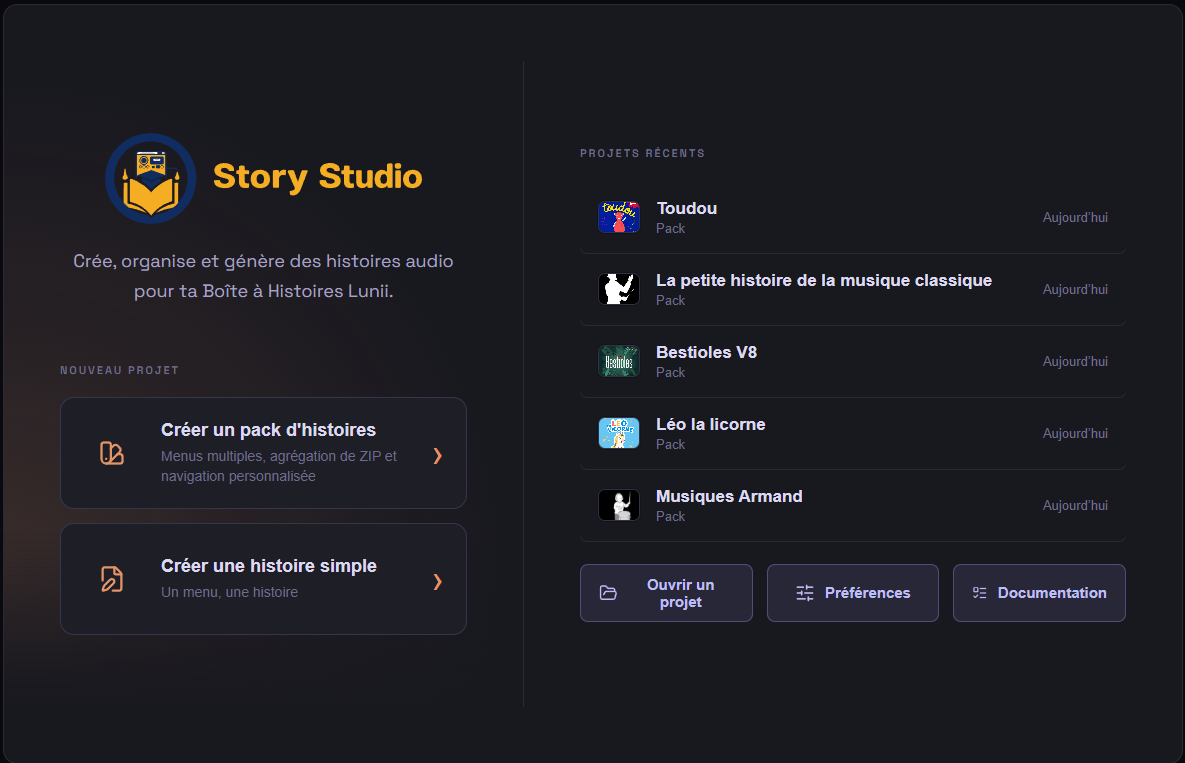
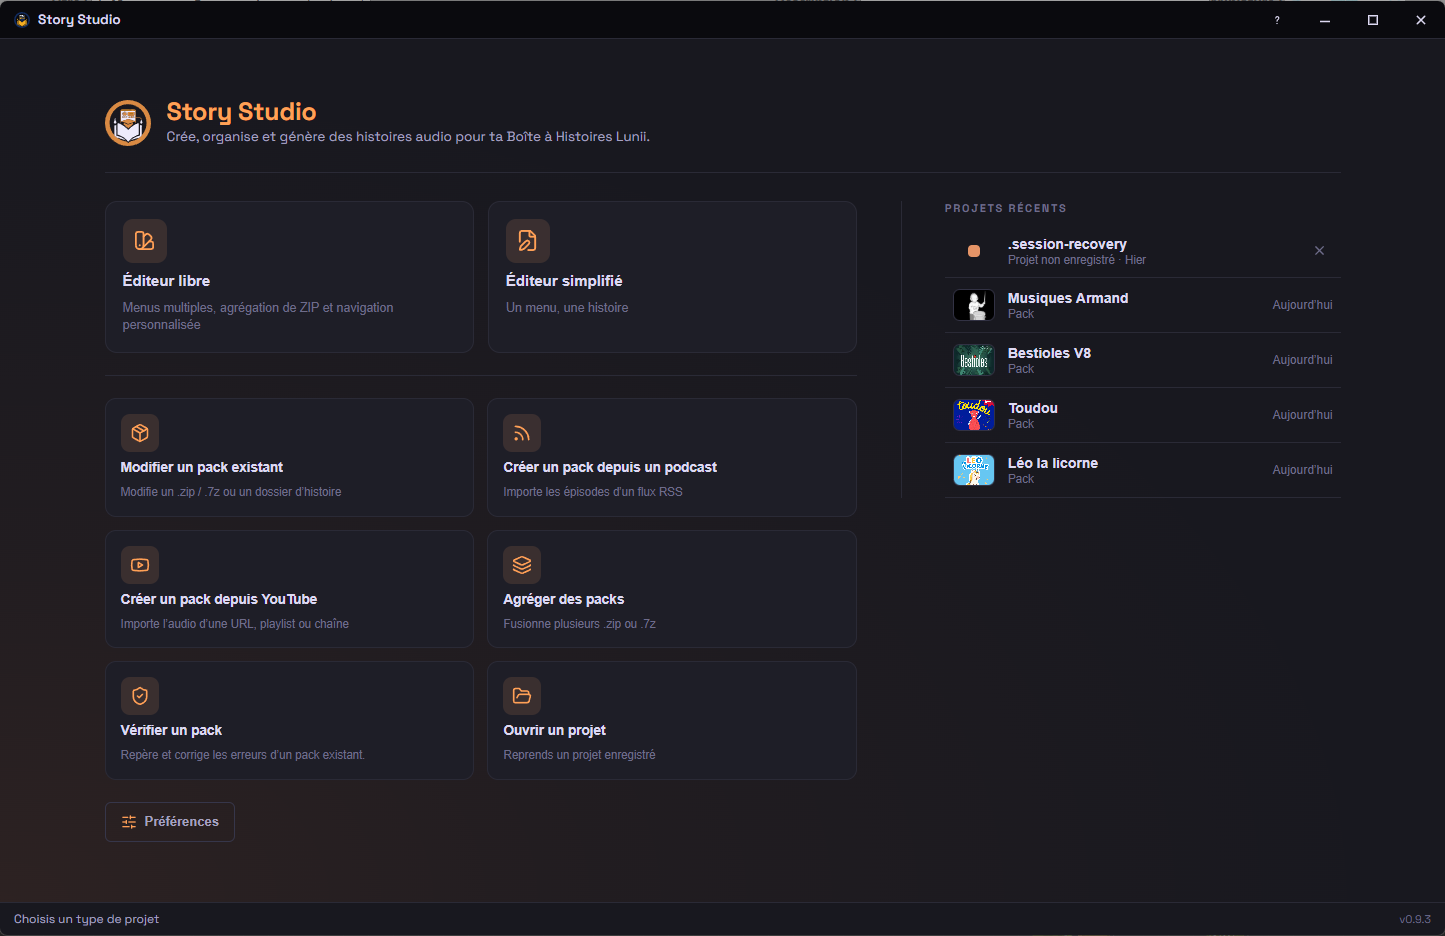
Prepare 0.9.3 release notes

diff --git a/docs/index.html b/docs/index.html
@@ -6,7 +6,7 @@
     <title>Story Studio — Créer des histoires et packs compatibles Lunii</title>
     <meta
       name="description"
-      content="Story Studio est un éditeur Windows open source pour créer des histoires pour la Lunii, importer, corriger et exporter des packs d'histoires compatibles Lunii."
+      content="Story Studio est un éditeur Windows open source pour créer des histoires pour la Lunii, importer des podcasts ou vidéos, corriger et exporter des packs compatibles Lunii."
     />
     <meta name="robots" content="index, follow" />
     <meta name="theme-color" content="#0c1227" />
@@ -15,7 +15,7 @@
     <meta property="og:title" content="Story Studio — Créer des histoires pour la Lunii" />
     <meta
       property="og:description"
-      content="Éditeur Windows open source pour créer des histoires pour la Lunii, importer, corriger et exporter des packs compatibles Lunii."
+      content="Éditeur Windows open source pour créer des histoires pour la Lunii, importer des podcasts ou vidéos, corriger et exporter des packs compatibles Lunii."
     />
     <meta property="og:type" content="website" />
     <meta property="og:site_name" content="Story Studio" />
@@ -29,7 +29,7 @@
 
     <meta name="twitter:card" content="summary_large_image" />
     <meta name="twitter:title" content="Story Studio — Créer des histoires pour la Lunii" />
-    <meta name="twitter:description" content="Éditeur Windows open source pour créer des histoires pour la Lunii, importer, corriger et exporter des packs compatibles Lunii." />
+    <meta name="twitter:description" content="Éditeur Windows open source pour créer des histoires pour la Lunii, importer des podcasts ou vidéos, corriger et exporter des packs compatibles Lunii." />
     <meta name="twitter:image" content="https://hugs11.github.io/story-studio/social-card.png" />
     <meta name="twitter:image:alt" content="Story Studio — éditeur de packs d'histoires pour la Lunii" />
 
@@ -39,13 +39,13 @@
         "@type": "SoftwareApplication",
         "name": "Story Studio",
         "alternateName": "Studio Story",
-        "description": "Éditeur Windows open source pour créer des histoires pour la Lunii, importer, corriger et exporter des packs d'histoires compatibles Lunii.",
+        "description": "Éditeur Windows open source pour créer des histoires pour la Lunii, importer des podcasts ou vidéos, corriger et exporter des packs d'histoires compatibles Lunii.",
         "url": "https://hugs11.github.io/story-studio/",
         "downloadUrl": "https://github.com/Hugs11/story-studio/releases/latest",
         "codeRepository": "https://github.com/Hugs11/story-studio",
         "applicationCategory": "MultimediaApplication",
         "operatingSystem": "Windows",
-        "softwareVersion": "0.9.2",
+        "softwareVersion": "0.9.3",
         "license": "https://github.com/Hugs11/story-studio/blob/main/LICENSE",
         "author": {
           "@type": "Person",
@@ -530,13 +530,13 @@
           </div>
 
           <div class="release-card" aria-labelledby="latest-release-title">
-            <h2 id="latest-release-title">Nouveautés de la version 0.9.2</h2>
+            <h2 id="latest-release-title">Nouveautés de la version 0.9.3</h2>
             <ul>
-              <li>Vérificateur/correcteur de packs communautaires avec analyse audio, image, métadonnées et navigation.</li>
-              <li>Workflow audio plus propre : FLAC jusqu'à l'export, volume cible, limiteur de crête et silences mesurés.</li>
-              <li>Découpage audio avant utilisation et import direct depuis des podcasts RSS.</li>
-              <li>Refonte complète de l'interface pour mieux comprendre les actions, les états et les rails de navigation.</li>
-              <li>Améliorations de l'arbre, du diagramme, du relink des médias manquants et de l'éditeur image.</li>
+              <li>Nouvel accueil guidé pour modifier un pack, créer depuis un podcast ou YouTube, agréger des archives et vérifier/corriger un pack.</li>
+              <li>Sessions non enregistrées par défaut : travail immédiat, enregistrement optionnel, reprise après crash et tri des médias à conserver.</li>
+              <li>Piper devient le moteur vocal local par défaut, sans serveur ni configuration, avec voix françaises téléchargées au premier usage.</li>
+              <li>Import YouTube via yt-dlp auto-téléchargé et import de vidéos, playlists ou chaînes dans l'éditeur.</li>
+              <li>Import de packs plus fidèle : références partagées, juge de fidélité canonique, agrégats et graphes ramifiés mieux préservés.</li>
             </ul>
           </div>
         </div>
@@ -569,9 +569,9 @@
                 </span>
                 <h3>Démarrez en quelques secondes</h3>
                 <p>
-                  Un écran d'accueil clair pour retrouver vos projets récents,
-                  importer un pack existant ou en créer un nouveau. Pas de menus
-                  cachés, pas de configuration interminable.
+                  Un écran d'accueil clair pour créer librement, modifier un
+                  pack existant, importer depuis un podcast ou YouTube, agréger
+                  plusieurs archives et vérifier un pack communautaire.
                 </p>
               </div>
             </div>
@@ -690,10 +690,11 @@
                     <rect x="3" y="14" width="7" height="7" />
                   </svg>
                 </span>
-                <h3>Importez depuis un podcast</h3>
+                <h3>Importez depuis un podcast ou YouTube</h3>
                 <p>
-                  Récupérez des épisodes depuis un flux RSS et transformez-les
-                  plus vite en contenus prêts à organiser dans votre pack.
+                  Récupérez des épisodes depuis un flux RSS ou des vidéos depuis
+                  YouTube, puis retrouvez-les comme histoires prêtes à organiser
+                  dans votre pack.
                 </p>
               </div>
             </div>
@@ -716,9 +717,9 @@
                 </span>
                 <h3>Audio sans complication</h3>
                 <p>
-                  Enregistrez votre voix au micro, coupez, ajoutez des fondus,
-                  assemblez plusieurs fichiers en une seule piste — directement dans
-                  l'app.
+                  Enregistrez votre voix au micro, générez une voix locale avec
+                  Piper, coupez, ajoutez des fondus et assemblez plusieurs
+                  fichiers en une seule piste — directement dans l'app.
                 </p>
               </div>
             </div>

diff --git a/CHANGELOG.md b/CHANGELOG.md
@@ -12,6 +12,70 @@ public version; this file stays as the concise project history.
 
 ---
 
+## [0.9.3] - 2026-07-03
+
+Story Studio v0.9.3 adds an assisted workflow layer on top of the existing
+editor: a redesigned home screen, guided import/generation funnels, ephemeral
+sessions, zero-config local voice generation, YouTube import and stronger
+imported-pack fidelity.
+
+### Added
+
+- Added a redesigned home screen centered on guided workflows: edit an existing
+  pack, create from a podcast, create from YouTube, aggregate packs and
+  check/correct a community pack.
+- Added a reusable funnel chassis with shared modal layout, stepper, drop zones,
+  tool buttons, generation progress and final states.
+- Added ephemeral project sessions so new work can start without choosing a
+  `.mbah` file first, with optional save prompts, crash recovery snapshots and
+  cleanup of temporary workspaces.
+- Added Piper as the default zero-config local TTS backend, with automatic
+  runtime provisioning of the engine and French voices.
+- Added YouTube import through runtime-downloaded `yt-dlp`, including video,
+  playlist and channel listing, thumbnail import and editor insertion.
+- Added a generative aggregate-packs funnel that builds a new pack directly from
+  several ZIP/7z packs without opening the full editor.
+- Added shared reference entries for imported branching graphs, including tree,
+  editor, diagram, simulator, validation and native export support.
+- Added a canonical fidelity judge and baseline coverage for imported packs.
+- Added a session-media triage step before cleaning up ephemeral sessions, so
+  unused generated/imported media can be kept or discarded intentionally.
+
+### Changed
+
+- Reworked imported pack projection around native graph classification, shared
+  entries and canonical fidelity checks; complex packs that cannot be edited
+  safely are kept out of the editable path.
+- Improved the edit-existing-pack flow with dry-run editability checks, folder
+  pack conversion, metadata prefill and suggested version bumps at generation.
+- Moved the community pack checker out of Preferences into its own guided
+  home-screen tool and refined the correction flow.
+- Enabled autosave by default for saved projects while keeping explicit user
+  opt-outs, and skipped empty simple-mode recovery snapshots.
+- Improved audio handling for generated and corrected packs, including silence
+  alignment with official packs and clearer generation controls.
+- Simplified generation and options UI, tightened funnel sizing and refreshed
+  French wording around save states, placeholders, checker messages and labels.
+- Added ESLint and Knip configuration, then removed stale JS/Rust helpers,
+  duplicated hooks and obsolete native graph fallback code.
+
+### Fixed
+
+- Fixed imported aggregate handling, duplicate imported entry names and imported
+  pack UUID/name recovery.
+- Fixed several navigation edge cases around refs, implicit Home playback,
+  root/virtual after-play returns, generated navigation badges and simulator
+  end-node selection.
+- Fixed global shortcuts leaking through modals, inline overlays and dialogs.
+- Fixed ephemeral promotion failure handling, tag-only media triage and transfer
+  copy reuse.
+- Fixed compact editor layouts, after-play controls, diagram return rails, tree
+  panel minimum width and pack-checker stale styles.
+- Fixed post-recording deletion, render queue close controls, archive labels,
+  Piper feedback and remaining import notice wording.
+
+---
+
 ## [0.9.2] - 2026-06-18
 
 Story Studio v0.9.2 focuses on making pack preparation easier to understand:

diff --git a/THIRD_PARTY_NOTICES.md b/THIRD_PARTY_NOTICES.md
@@ -139,11 +139,23 @@ to the downloaded copies, which is why they are disclosed here.
   (always the latest release; integrity verified against that release's
   `SHA2-256SUMS` before use).
 - **Upstream project:** <https://github.com/yt-dlp/yt-dlp>
-- **License:** **The Unlicense** (public-domain dedication)
-- **License text:** <https://github.com/yt-dlp/yt-dlp/blob/master/LICENSE>
+- **License:** the yt-dlp source project is licensed under **The Unlicense**,
+  but the standalone Windows release binary downloaded here is a
+  **PyInstaller-bundled executable**. Upstream documents that those executables
+  include GPLv3+ licensed code and that the combined work is therefore
+  **GPL v3 or later**.
+- **License texts / notices:**
+  - yt-dlp source license: <https://github.com/yt-dlp/yt-dlp/blob/master/LICENSE>
+  - yt-dlp licensing notes: <https://github.com/yt-dlp/yt-dlp#licensing>
+  - yt-dlp third-party notices:
+    <https://github.com/yt-dlp/yt-dlp/blob/master/THIRD_PARTY_LICENSES.txt>
+  - GPL v3: <https://www.gnu.org/licenses/gpl-3.0.en.html>
 
 The latest version is always fetched because YouTube blocks outdated releases.
-yt-dlp uses the bundled `ffmpeg.exe` (see above) to extract audio.
+yt-dlp uses the bundled `ffmpeg.exe` (see above) to extract audio. Story Studio
+does not redistribute `yt-dlp.exe`; it is fetched at runtime. If a future
+release bundles `yt-dlp.exe`, treat that bundled binary as GPL v3 or later and
+include the matching upstream third-party notices.
 
 ### Piper (text-to-speech)
 
@@ -164,15 +176,21 @@ yt-dlp uses the bundled `ffmpeg.exe` (see above) to extract audio.
     **ONNX Runtime**, licensed under the **MIT License** —
     <https://github.com/microsoft/onnxruntime/blob/main/LICENSE>.
   - Each voice model carries **its own license**, documented in that voice's
-    `MODEL_CARD` in the `piper-voices` repository. The French voices used by
-    default (`fr_FR-siwis-medium`, `fr_FR-tom-medium`, `fr_FR-gilles-low`) are
-    based on openly licensed datasets (e.g. CC BY / CC0); check each MODEL_CARD
-    for the exact terms.
+    `MODEL_CARD` in the `piper-voices` repository. The French voices available
+    in Story Studio are:
+    - `fr_FR-siwis-medium`: dataset/model card license **CC BY 4.0** —
+      <https://huggingface.co/rhasspy/piper-voices/blob/v1.0.0/fr/fr_FR/siwis/medium/MODEL_CARD>
+    - `fr_FR-tom-medium`: dataset/model card license **AGPL v3** —
+      <https://huggingface.co/rhasspy/piper-voices/blob/v1.0.0/fr/fr_FR/tom/medium/MODEL_CARD>
+    - `fr_FR-gilles-low`: dataset/model card license **CC0** —
+      <https://huggingface.co/rhasspy/piper-voices/blob/v1.0.0/fr/fr_FR/gilles/low/MODEL_CARD>
 
 Because the Piper Windows archive includes eSpeak NG (GPL v3), treat the
 downloaded Piper toolchain as **GPL v3** for any redistribution. Story Studio
 does not redistribute it — it is fetched at runtime from the official sources
-above — but anyone who chooses to bundle it must honor those terms.
+above — but anyone who chooses to bundle it must honor those terms. If a future
+release bundles Piper voices too, review each selected voice model card and
+document the exact voice license in the bundled-assets section.
 
 ## Distribution notes
 
@@ -184,5 +202,5 @@ hard **100 MiB per-file** limit (the current binary is close to that limit).
 yt-dlp and Piper are **not** bundled: they are downloaded at runtime (see
 "Runtime-downloaded tools" above). If a future release decides to bundle either
 of them in the installer, move its entry up and document the exact file, version,
-SHA-256 and the resulting license obligations (notably Piper's GPL v3 eSpeak NG
-component).
+SHA-256 and the resulting license obligations (notably yt-dlp's GPLv3+
+standalone Windows binary and Piper's GPL v3 eSpeak NG component).

diff --git a/README.fr.md b/README.fr.md
@@ -12,7 +12,7 @@
   <a href=".github/workflows/ci.yml"><img alt="CI: Windows build" src="https://img.shields.io/badge/CI-Windows%20build-2ea44f.svg"></a>
   <a href="LICENSE"><img alt="License: MIT" src="https://img.shields.io/badge/license-MIT-blue.svg"></a>
   <a href="#configuration-requise"><img alt="Platform: Windows" src="https://img.shields.io/badge/platform-Windows-0078D4.svg"></a>
-  <a href="CHANGELOG.md"><img alt="Version 0.9.2" src="https://img.shields.io/badge/version-0.9.2-2F80ED.svg"></a>
+  <a href="CHANGELOG.md"><img alt="Version 0.9.3" src="https://img.shields.io/badge/version-0.9.3-2F80ED.svg"></a>
   <a href="#statut-beta"><img alt="Status: beta" src="https://img.shields.io/badge/status-beta-f59e0b.svg"></a>
   <a href="https://tauri.app/"><img alt="Tauri 2" src="https://img.shields.io/badge/Tauri-2-24C8DB.svg"></a>
   <a href="https://react.dev/"><img alt="React 19" src="https://img.shields.io/badge/React-19-61DAFB.svg"></a>
@@ -40,13 +40,13 @@ issues.
 
 ## Dernière version
 
-Story Studio 0.9.2 ajoute un vérificateur/correcteur de packs communautaires,
-l'import de podcasts, le découpage audio avant utilisation, un workflow audio
-basé sur le FLAC et une refonte complète de l'interface avec des rails de
-navigation et des actions plus lisibles.
+Story Studio 0.9.3 ajoute un accueil guidé, des sessions non enregistrées avec
+enregistrement optionnel, des flux assistés pour modifier, vérifier ou agréger
+des packs, la génération vocale Piper sans configuration, l'import YouTube et
+une meilleure fidélité des packs importés.
 
 - [Télécharger la dernière version](https://github.com/Hugs11/story-studio/releases/latest)
-- [Lire les notes de version 0.9.2](https://github.com/Hugs11/story-studio/releases/tag/v0.9.2)
+- [Lire les notes de version 0.9.3](https://github.com/Hugs11/story-studio/releases/tag/v0.9.3)
 - [Voir le changelog complet](CHANGELOG.md)
 
 ## En un coup d'œil
@@ -58,7 +58,7 @@ navigation et des actions plus lisibles.
 | **Format projet** | `.mbah` |
 | **Format d'export** | Packs ZIP compatibles Lunii |
 | **Stack principale** | React 19, Vite, Tauri 2, Rust |
-| **Workflow** | Éditeur arborescent visuel, agrégation de packs ZIP, navigation par nœuds, explorateur de médias, simulateur |
+| **Workflow** | Accueil guidé, éditeur arborescent visuel, agrégation de packs ZIP, navigation par nœuds, explorateur de médias, simulateur |
 | **Vie privée** | App locale, aucun backend hébergé, aucune télémétrie |
 
 ## Captures d'écran
@@ -92,14 +92,16 @@ navigation et des actions plus lisibles.
 ## Fonctionnalités
 
 - **Éditeur visuel arborescent** avec menus imbriqués, multi-sélection, glisser-déposer et actions contextuelles.
-- **Import de packs ZIP Lunii** : inspection, extraction en projet éditable, agrégation avec vos propres histoires.
+- **Flux guidés depuis l'accueil** pour modifier un pack existant, créer depuis un podcast ou YouTube, agréger des ZIP et vérifier/corriger un pack communautaire.
+- **Import de packs ZIP Lunii** : inspection, extraction en projet éditable, préservation des graphes ramifiés via références partagées, agrégation avec vos propres histoires.
 - **Workflow audio intégré** : enregistrement micro, rognage, coupes, fondus, assemblage et insertion de silence.
 - **Workflow image intégré** : recadrage 320×240 automatique, génération d'images textuelles depuis les noms.
+- **Génération vocale locale** avec Piper par défaut et XTTS en option avancée.
 - **Explorateur de médias** avec tags, filtres, compteurs d'utilisation et aperçus rapides.
 - **Simulateur intégré** pour tester la navigation et les nœuds de fin avant export.
 - **Validation et file de rendu** : vérifications de compatibilité et génération en série avec suivi des logs.
-- **Intégrations locales optionnelles** XTTS (voix) et ComfyUI (images).
-- **Confort projet** : autosave, versions de sécurité, raccourcis configurables, thèmes clair/sombre, vue diagramme.
+- **Intégrations locales optionnelles** YouTube via yt-dlp, XTTS (voix) et ComfyUI (images).
+- **Confort projet** : sessions non enregistrées, enregistrement automatique, reprise après crash, versions de sécurité, raccourcis configurables, thèmes clair/sombre, vue diagramme.
 
 ## Pourquoi Story Studio ?
 

diff --git a/README.md b/README.md
@@ -12,7 +12,7 @@
   <a href=".github/workflows/ci.yml"><img alt="CI: Windows build" src="https://img.shields.io/badge/CI-Windows%20build-2ea44f.svg"></a>
   <a href="LICENSE"><img alt="License: MIT" src="https://img.shields.io/badge/license-MIT-blue.svg"></a>
   <a href="#requirements"><img alt="Platform: Windows" src="https://img.shields.io/badge/platform-Windows-0078D4.svg"></a>
-  <a href="CHANGELOG.md"><img alt="Version 0.9.2" src="https://img.shields.io/badge/version-0.9.2-2F80ED.svg"></a>
+  <a href="CHANGELOG.md"><img alt="Version 0.9.3" src="https://img.shields.io/badge/version-0.9.3-2F80ED.svg"></a>
   <a href="#beta-status"><img alt="Status: beta" src="https://img.shields.io/badge/status-beta-f59e0b.svg"></a>
   <a href="https://tauri.app/"><img alt="Tauri 2" src="https://img.shields.io/badge/Tauri-2-24C8DB.svg"></a>
   <a href="https://react.dev/"><img alt="React 19" src="https://img.shields.io/badge/React-19-61DAFB.svg"></a>
@@ -44,12 +44,12 @@ GitHub issues.
 
 ## Latest Release
 
-Story Studio 0.9.2 adds a community pack checker/corrector, podcast import,
-pre-use audio splitting, a FLAC-based audio workflow and a complete UI redesign
-with clearer navigation rails and actions.
+Story Studio 0.9.3 adds a guided home experience, optional-save ephemeral
+sessions, assisted pack editing/checking/aggregation flows, zero-config Piper
+voice generation, YouTube import and stronger imported-pack fidelity.
 
 - [Download the latest release](https://github.com/Hugs11/story-studio/releases/latest)
-- [Read the v0.9.2 release notes](https://github.com/Hugs11/story-studio/releases/tag/v0.9.2)
+- [Read the v0.9.3 release notes](https://github.com/Hugs11/story-studio/releases/tag/v0.9.3)
 - [See the full changelog](CHANGELOG.md)
 
 ## At a Glance
@@ -62,7 +62,7 @@ with clearer navigation rails and actions.
 | **Project format** | `.mbah` |
 | **Export format** | Lunii-compatible ZIP packs |
 | **Main stack** | React 19, Vite, Tauri 2, Rust |
-| **Workflow** | Visual tree editor, ZIP pack aggregation, node-based navigation, media explorer, simulator |
+| **Workflow** | Guided home workflows, visual tree editor, ZIP pack aggregation, node-based navigation, media explorer, simulator |
 | **Privacy model** | Local app, no hosted backend, no telemetry |
 
 ## Screenshots
@@ -96,14 +96,16 @@ with clearer navigation rails and actions.
 ## Features
 
 - **Visual tree editor** with nested menus, multi-select, drag-and-drop and contextual actions.
-- **Lunii ZIP pack import**: inspect, extract into an editable project, aggregate with your own stories.
+- **Guided home workflows** to edit an existing pack, create from a podcast or YouTube, aggregate ZIP packs, and check/correct a community pack.
+- **Lunii ZIP pack import**: inspect, extract into an editable project, preserve branching graphs with shared references, and aggregate with your own stories.
 - **Built-in audio workflow**: microphone recording, trimming, cuts, fades, assembly and silence insertion.
 - **Built-in image workflow**: automatic 320×240 cropping, text-image generation from node names.
+- **Local voice generation** with Piper by default and XTTS as an advanced opt-in backend.
 - **Media explorer** with tags, filters, usage counters and quick previews.
 - **Built-in simulator** to test navigation and end nodes before export.
 - **Validation and render queue**: compatibility checks and serial generation with log tracking.
-- **Optional local integrations** XTTS (voice) and ComfyUI (images).
-- **Project comfort**: autosave, safety versions, configurable shortcuts, light/dark themes, full diagram view.
+- **Optional local integrations** YouTube via yt-dlp, XTTS (voice) and ComfyUI (images).
+- **Project comfort**: optional-save sessions, autosave, recovery snapshots, safety versions, configurable shortcuts, light/dark themes, full diagram view.
 
 ## Why Story Studio?
 